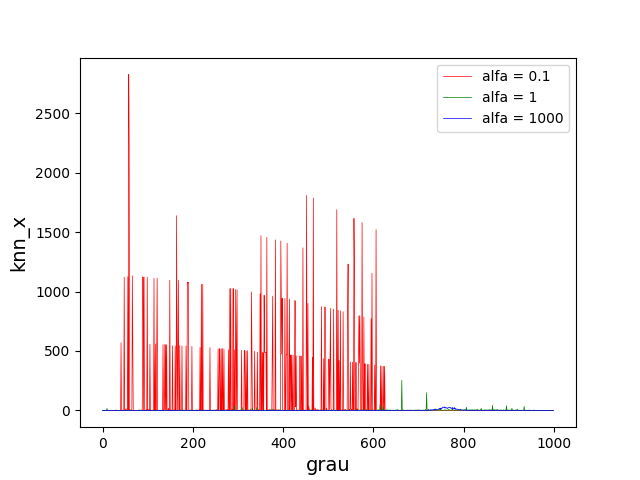
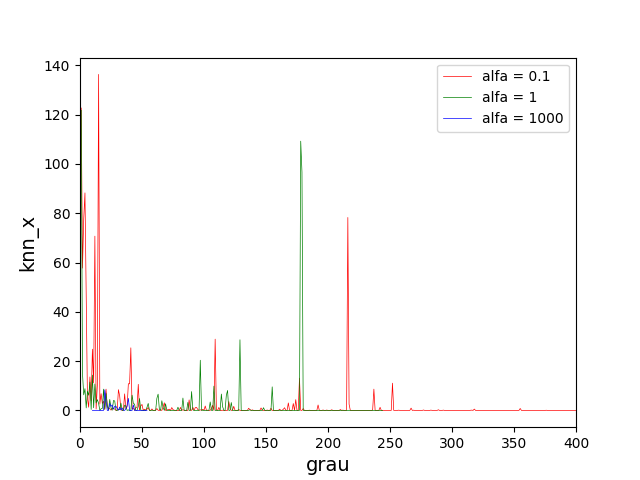
construcao da rede ta bem errada

diff --git a/src/test_rede_negativa.py b/src/test_rede_negativa.py
@@ -13,47 +13,65 @@ from scipy.integrate import solve_ivp
 from scipy.signal import hilbert
 from metrics import * 
 
+def gerar(alfa, c, N):
+    grau = binomial_neg(alfa, c, N)
+    rede = make_nx_graph(grau)
+    knn = knn_k(rede, N)
+    return rede, grau, knn 
+
+def arrumar_knn(k_nodes, knn_nodes, k_min = 0, k_max = 400, min_count=5):
+    
+    k_nodes = np.asarray(k_nodes, dtype=int)
+    knn_nodes = np.asarray(knn_nodes, dtype=int)
+    kmax = int(k_nodes.max())
+
+    sum_knn = np.bincount(k_nodes, weights=knn_nodes, minlength=kmax+1)
+    cnt = np.bincount(k_nodes, minlength=kmax+1)
+
+    with np.errstate(invalid='ignore', divide='ignore'):
+        knn_k = sum_knn / np.where(cnt == 0, np.nan, cnt)
+
+    degrees = np.arange(kmax+1)
+    mask = (degrees >= k_min) & (degrees <= k_max) & (cnt >= min_count) & np.isfinite(knn_k)
+    return degrees[mask], knn_k[mask]
+
+
 """
 Para o caso da exponencial
 """
-N = 1000
-c = 800
+N = 500000
+c = 30
 alfa = 1
 
-grau = binomial_neg(alfa, c, N)
-rede_exp = make_nx_graph(grau)
-
-knn_exp = knn_k(rede_exp, N)
+rede_exp, k_exp, knn_exp = gerar(alfa, c, N)
 
 """
 Para o caso da variância tender ao infinito
 """
 alfa = 0.1
-
-grau = binomial_neg(alfa, c, N)
-rede_var = make_nx_graph(grau)
-knn_var = knn_k(rede_var, N)
+rede_var, k_var, knn_var = gerar(alfa, c, N)
 
 """
 Para o caso da Poisson
 """
-alfa = 10000
-
-grau = binomial_neg(alfa, c, N)
-
-rede_pois = make_nx_graph(grau)
-knn_pois = knn_k(rede_pois, N)
+alfa = 1000
+rede_pois, k_pois, knn_pois = gerar(alfa, c, N)
 
 #gráfico knn x grau
-t = range(0, len(knn_var))
+t = range(0, 400)
+
+x_var, y_var = arrumar_knn(k_var,   knn_var,  k_min=1, k_max=400, min_count=10)
+x_exp, y_exp = arrumar_knn(k_exp,   knn_exp,  k_min=1, k_max=400, min_count=10)
+x_poi, y_poi = arrumar_knn(k_pois,  knn_pois, k_min=1, k_max=400, min_count=10)
 
 fig, ax = plt.subplots()
-
 ax.set_xlabel('grau', fontsize=14)
 ax.set_ylabel('knn_x', fontsize=14)
-#ax.plot(t, knn_var, 'r', label = 'alfa = 0.1', lw=0.5)
-ax.plot(t, knn_exp, 'g', label = 'alfa = 1', lw=0.5)
-ax.plot(t, knn_pois, 'b', label = 'alfa = 1000', lw=0.5)
+ax.set_xlim(0, 400)
+
+ax.plot(x_var, y_var, 'r', label = 'alfa = 0.1', lw=0.5)
+ax.plot(x_exp, y_exp, 'g', label = 'alfa = 1', lw=0.5)
+ax.plot(x_poi, y_poi, 'b', label = 'alfa = 1000', lw=0.5)
 
 ax.legend()
 #fig.show()
